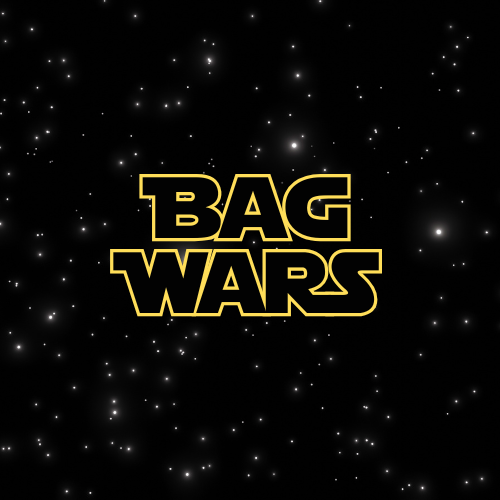
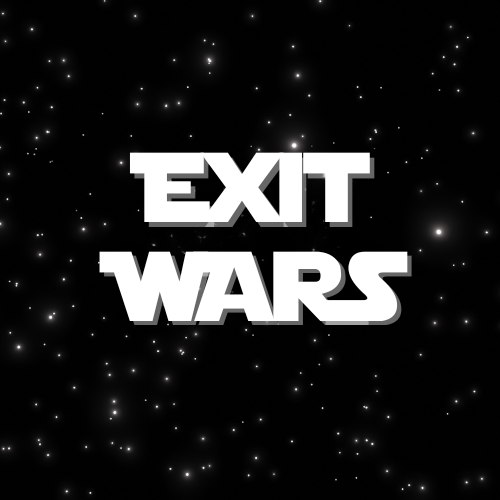
sd

Changed region(s): [[0.18, 0.3, 0.84, 0.66]]

diff --git a/index.html b/index.html
@@ -3,7 +3,7 @@
 <head>
     <meta charset="UTF-8">
     <meta name="viewport" content="width=device-width, initial-scale=1.0">
-    <title>Bag Wars - May the Bags Be With You</title>
+    <title>Exit Wars - May the Exits Be With You</title>
     <script src="https://cdn.jsdelivr.net/npm/firebase@9.22.2/firebase-app-compat.min.js"></script>
     <script src="https://cdn.jsdelivr.net/npm/firebase@9.22.2/firebase-firestore-compat.min.js"></script>
     <script src="https://cdn.jsdelivr.net/npm/chart.js"></script>
@@ -936,6 +936,13 @@
             gap: 1rem;
         }
         
+                .logo-imgs {
+            height: 400px;
+            width: auto;
+            filter: drop-shadow(0 0 10px rgba(47, 48, 48, 0.7));
+            transition: all 0.3s ease;
+            margin-bottom: 40px;
+        }
         .logo-img {
             height: 80px;
             width: auto;
@@ -967,8 +974,9 @@
 <body>
     <!-- Star Wars Intro Effect -->
 <div class="star-wars-intro" style="animation: introFade 0.8s ease-in-out;">
-
-        <h1>BAG WARS</h1>
+    <div class="logo-containers">
+        <img src="Testo del paragrafo.png" alt="Bag Wars Logo" class="logo-imgs">
+    </div>
         <p>A long time ago in a blockchain far, far away...</p>
     </div>
 
@@ -985,12 +993,12 @@
     <!-- Star Wars Crawl Container (hidden by default) -->
     <div class="star-wars-crawl">
         <div class="crawl-content">
-            <div class="crawl-title">BAG WARS</div>
+            <div class="crawl-title">Exit WARS</div>
             <div class="crawl-text">
                 <p>Episode IV</p>
-                <p>A NEW HOPE FOR BAGHOLDERS</p>
+                <p>A NEW HOPE FOR ExitHOLDERS</p>
                 <br>
-                <p>It is a period of civil war. Rebel bagholders, striking from hidden wallets, have won their first victory against the evil Paperhand Empire.</p>
+                <p>It is a period of civil war. Rebel Exitholders, striking from hidden wallets, have won their first victory against the evil Paperhand Empire.</p>
                 <br>
                 <p>During the battle, Rebel spies managed to steal secret plans to the Empire's ultimate weapon, the DEATH STAR, a space station with enough selling pressure to destroy an entire token's price action.</p>
                 <br>
@@ -1007,11 +1015,11 @@
     
     <div class="header-right">
         <div class="current-round">ROUND #<span id="current-round">1</span></div>
-        <a href="https://x.com/bagwarssolana" class="twitter-link" target="_blank">
+        <a href="https://x.com/Exitwars" class="twitter-link" target="_blank">
             <svg xmlns="http://www.w3.org/2000/svg" width="24" height="24" viewBox="0 0 24 24" fill="#1DA1F2">
                 <path d="M22.46 6.012a8.58 8.58 0 0 1-2.466.676 4.305 4.305 0 0 0 1.886-2.374 8.591 8.591 0 0 1-2.725 1.041 4.292 4.292 0 0 0-7.313 3.914 12.18 12.18 0 0 1-8.846-4.483 4.286 4.286 0 0 0 1.328 5.728 4.27 4.27 0 0 1-1.943-.537v.054a4.293 4.293 0 0 0 3.442 4.208 4.305 4.305 0 0 1-1.938.073 4.296 4.296 0 0 0 4.01 2.98 8.614 8.614 0 0 1-5.33 1.838c-.347 0-.687-.02-1.02-.059a12.15 12.15 0 0 0 6.574 1.927c7.883 0 12.2-6.54 12.2-12.2 0-.186-.004-.371-.012-.555a8.72 8.72 0 0 0 2.152-2.23z"/>
             </svg>
-            <span>@bagwarssolana</span>
+            <span>@Exitwars</span>
         </a>
     </div>
 </header>
@@ -1107,7 +1115,7 @@
                 </div>
                 
                 <div id="battle-phase" class="hidden">
-                    <p>Vote for the weakest bag holder to eliminate them!</p>
+                    <p>Vote for the weakest Exit holder to eliminate them!</p>
                     <div class="participant-list" id="battle-participants">
                         <!-- Participants will be added here dynamically -->
                     </div>
@@ -1143,7 +1151,7 @@
                     <li>Buy the memecoin (contract: TBA)</li>
                     <li>Wait for entry phase to open</li>
                     <li>Submit your wallet address and TX proof</li>
-                    <li>Defend your bag during battle phase</li>
+                    <li>Defend your Exit during battle phase</li>
                     <li>Eliminate weaker holders to survive</li>
                 </ol>
 
